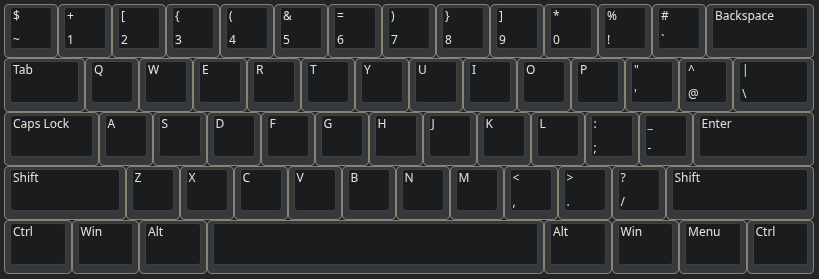
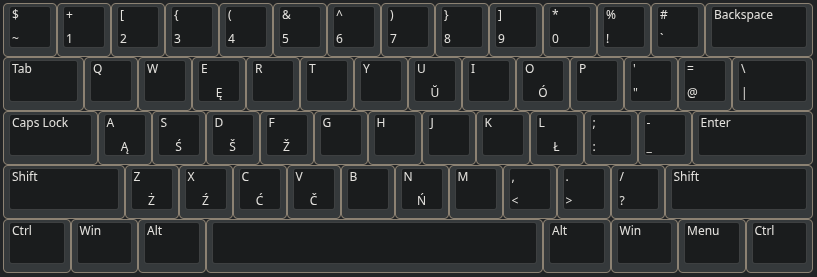
ver1.1

diff --git a/README.md b/README.md
@@ -24,6 +24,10 @@ and it actually fixes all those problems.
 So the idea here is: can QWERTY be improved by placing symbols the same way
 they are on Real Programmer’s Dvorak? My layout tries exactly that.
 
+**CapsLock** also toggles digit row.
+
+**AltGr** is used to get symbols like ążć...
+
 ## Polish?
 
 Yes, and not only, since now I am studying here, having additional symbols on altgr is convinient. For more info refer to qwerty-seine file.
